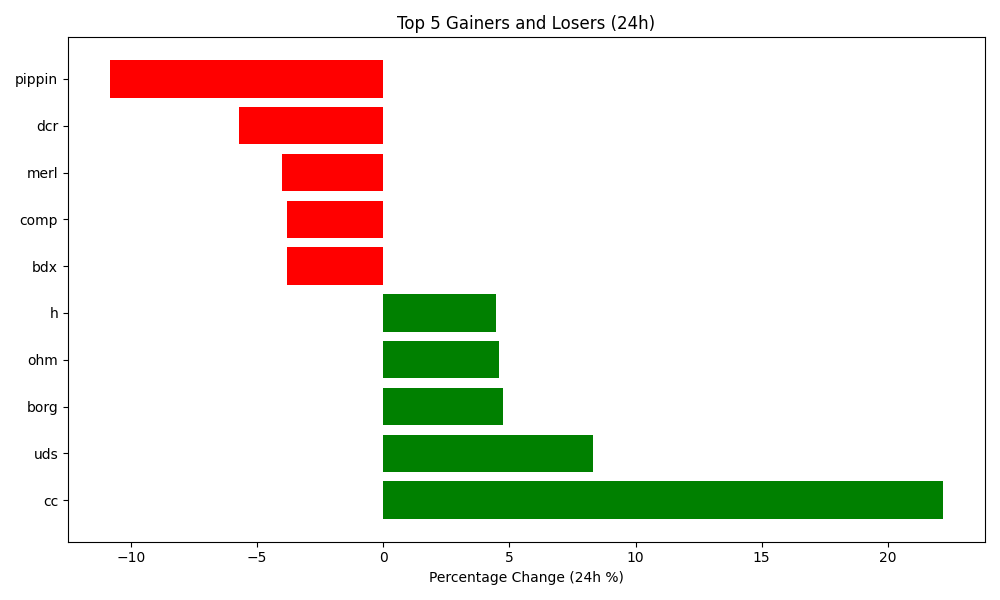
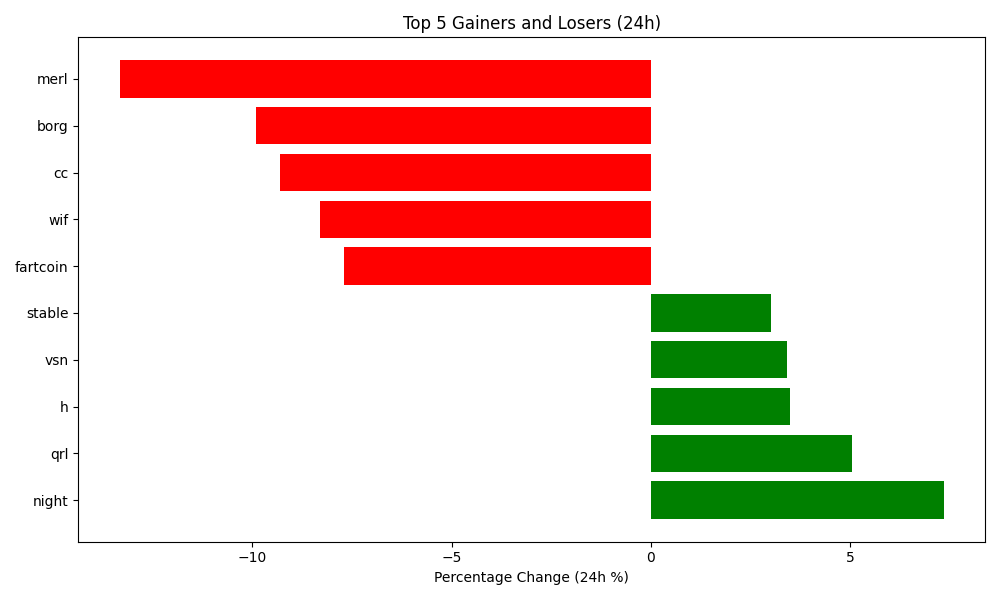
Auto-update crypto data and plot

diff --git a/README.md b/README.md
@@ -4,7 +4,7 @@ Author: Hitesh Agrawal
 This repository automatically tracks the top 5 gaining, top 5 losing, and top 5 highest volume cryptocurrencies in the last 24 hours using the CoinGecko API, Python, Matplotlib, and GitHub Actions updates the below content everyday at midnight.
 
 <!-- START_DYNAMIC_CONTENT -->
-Last updated: 2025-12-29 01:14 UTC
+Last updated: 2025-12-30 01:09 UTC
 
 ![Crypto Movers Plot](crypto_movers_plot.png)
 
@@ -12,33 +12,33 @@ Last updated: 2025-12-29 01:14 UTC
 
 | Rank | Coin | Price Change (24h %) | Volume (USD) | Current Price (USD) |
 | :--: | :--: | :------------------: | :----------: | :-----------------: |
-| 1 | cc | 22.19% | $46,360,494 | $0.1389 |
-| 2 | uds | 8.31% | $1,147,285 | $2.4400 |
-| 3 | borg | 4.74% | $841,050 | $0.2765 |
-| 4 | ohm | 4.58% | $593,642 | $22.0000 |
-| 5 | h | 4.49% | $47,662,796 | $0.1633 |
+| 1 | night | 7.36% | $113,102,319 | $0.0969 |
+| 2 | qrl | 5.06% | $216,939 | $2.8900 |
+| 3 | h | 3.49% | $53,458,696 | $0.1695 |
+| 4 | vsn | 3.41% | $34,691,024 | $0.0824 |
+| 5 | stable | 3.01% | $34,199,647 | $0.0134 |
 
 
 **👇 Top 5 Losers (24h)**
 
 | Rank | Coin | Price Change (24h %) | Volume (USD) | Current Price (USD) |
 | :--: | :--: | :------------------: | :----------: | :-----------------: |
-| 1 | pippin | -10.84% | $22,783,448 | $0.4211 |
-| 2 | dcr | -5.69% | $6,172,597 | $19.0300 |
-| 3 | merl | -4.02% | $23,379,286 | $0.3526 |
-| 4 | comp | -3.82% | $14,200,008 | $25.9100 |
-| 5 | bdx | -3.80% | $11,013,068 | $0.0955 |
+| 1 | merl | -13.33% | $31,688,335 | $0.3031 |
+| 2 | borg | -9.90% | $876,147 | $0.2488 |
+| 3 | cc | -9.30% | $36,832,525 | $0.1263 |
+| 4 | wif | -8.30% | $135,435,448 | $0.2893 |
+| 5 | fartcoin | -7.70% | $82,786,484 | $0.2831 |
 
 
 **💎 Top 5 by Trade Volume (24h)**
 
 | Rank | Coin | Price Change (24h %) | Volume (USD) | Current Price (USD) |
 | :--: | :--: | :------------------: | :----------: | :-----------------: |
-| 1 | usdt | -0.02% | $35,451,004,992 | $0.9993 |
-| 2 | btc | 0.24% | $18,247,176,548 | $88,004.0000 |
-| 3 | eth | 0.55% | $9,218,813,373 | $2,960.6500 |
-| 4 | usdc | -0.21% | $5,058,353,674 | $1.0000 |
-| 5 | sol | 1.68% | $2,699,816,969 | $126.4900 |
+| 1 | usdt | -0.03% | $86,427,667,509 | $0.9989 |
+| 2 | btc | -1.02% | $52,673,966,068 | $87,086.0000 |
+| 3 | eth | -0.85% | $27,116,834,204 | $2,930.9200 |
+| 4 | usdc | -0.02% | $13,355,231,648 | $0.9997 |
+| 5 | sol | -2.98% | $4,735,279,463 | $122.8100 |
 
 
 <!-- END_DYNAMIC_CONTENT -->
